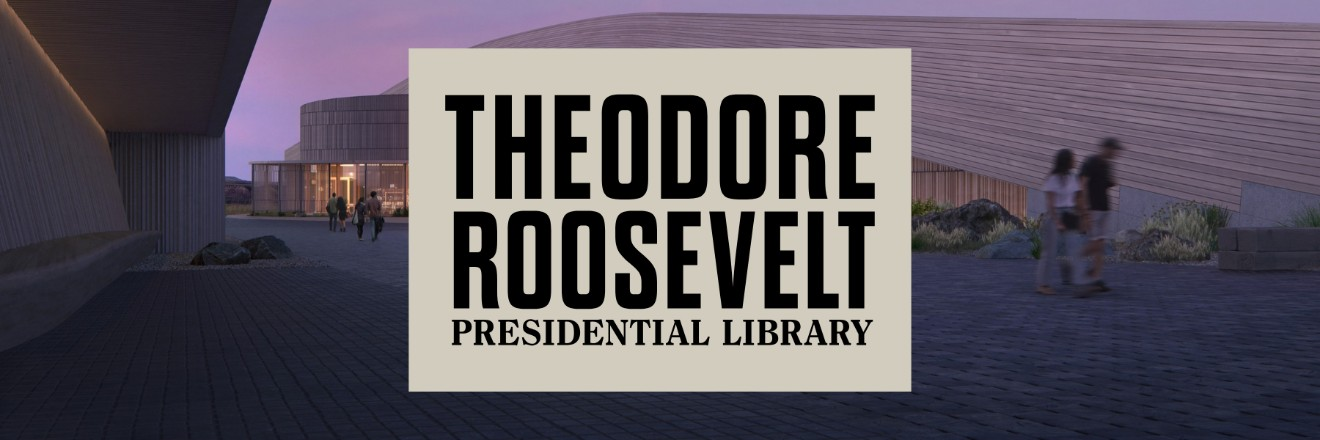
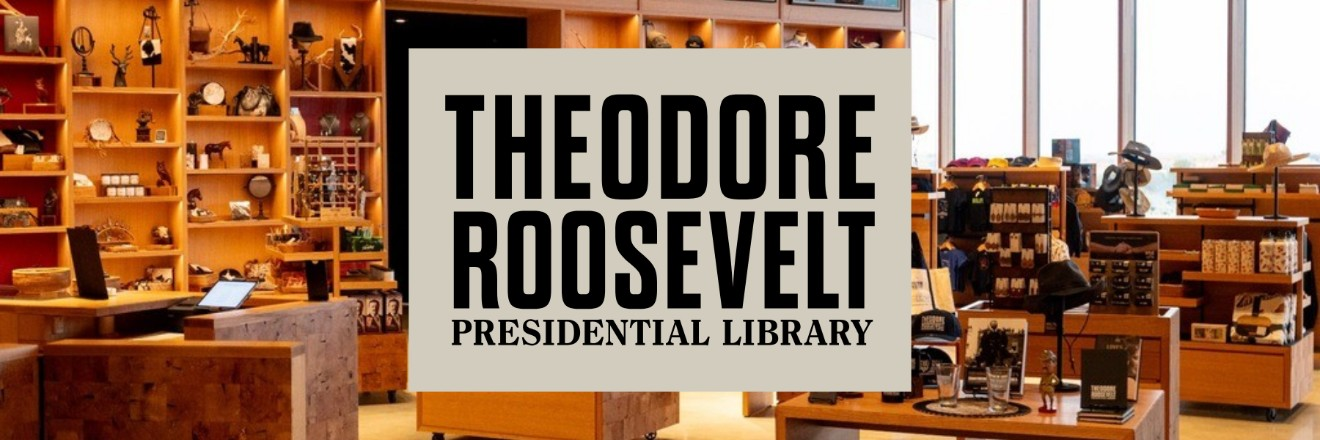
Post-visit emails: real photos only, no architectural renderings
Shop header is the real Library Shop; event and come-back emails use the
real building, boardwalk, galleries, terrace and video frames.

Claude-Session: https://claude.ai/code/session_01NsS3vn2mLrk4xNqmPxMEFG

diff --git a/docs/proposals/visit-t-plus-30-host-an-event.html b/docs/proposals/visit-t-plus-30-host-an-event.html
@@ -27,10 +27,10 @@
 <tr><td align="center" style="padding:0;"><a href="https://www.trlibrary.com" target="_blank"><img src="proposals/img/visit-t-plus-30-host-an-event-header.jpg" alt="Theodore Roosevelt Presidential Library" width="660" style="display:block;width:100%;max-width:660px;height:auto;border:0;"></a></td></tr>
 <tr><td style="padding:28px 24px 8px;"><h1 style="display:block;margin:0;color:#000000;font-family:'Oswald', 'Arial Narrow', Arial, sans-serif;font-size:32px;font-weight:600;line-height:1.25;letter-spacing:.02em;text-transform:uppercase;text-align:center;">Host Your Event at the Library</h1></td></tr>
 <tr><td style="padding:8px 24px;"><div style="margin:0;color:#000000;font-family:'Alegreya', Georgia, 'Times New Roman', serif;font-size:17px;font-weight:normal;line-height:1.6;text-align:left;">Hello [[FIRSTNAME OR "Friend"]],<br><br>You have seen the galleries by day. After hours, the Library hosts weddings, leadership retreats, private dinners and family reunions, with sunset over the Badlands as the backdrop.</div></td></tr>
-<tr><td align="center" style="padding:12px 24px;"><img src="proposals/img/pv-events-lobby-wide.jpg" alt="The Library lobby, with glass walls framing the Badlands" width="612" style="display:block;width:100%;max-width:612px;height:auto;border:0;"></td></tr>
+<tr><td align="center" style="padding:12px 24px;"><img src="proposals/img/pv-events-overlook-wide.jpg" alt="Two people on the Library boardwalk looking out over the Badlands" width="612" style="display:block;width:100%;max-width:612px;height:auto;border:0;"></td></tr>
 <tr><td style="padding:8px 24px;"><table role="presentation" width="100%" border="0" cellpadding="0" cellspacing="0" style="border-collapse:collapse;width:100%;table-layout:fixed;"><tr><td width="50%" style="width:50%;padding:8px 4px;border:1px solid #D1D1D1;background-color:#F4F2EC;color:#000000;font-family:'Oswald', 'Arial Narrow', Arial, sans-serif;font-size:13px;font-weight:600;letter-spacing:.06em;line-height:1.25;text-transform:uppercase;text-align:left;overflow-wrap:break-word;padding-left:10px;">Event</td><td width="50%" style="width:50%;padding:8px 4px;border:1px solid #D1D1D1;background-color:#F4F2EC;color:#000000;font-family:'Oswald', 'Arial Narrow', Arial, sans-serif;font-size:13px;font-weight:600;letter-spacing:.06em;line-height:1.25;text-transform:uppercase;text-align:center;overflow-wrap:break-word;">At the Library</td></tr><tr><td style="width:50%;padding:8px 4px;border:1px solid #D1D1D1;background-color:#ffffff;font-family:'Alegreya', Georgia, 'Times New Roman', serif;font-size:15px;font-weight:bold;line-height:1.35;color:#000000;padding-left:10px;text-align:left;vertical-align:middle;overflow-wrap:break-word;">Weddings and celebrations</td><td style="width:50%;padding:8px 4px;border:1px solid #D1D1D1;background-color:#ffffff;font-family:'Alegreya', Georgia, 'Times New Roman', serif;font-size:16px;line-height:1.4;color:#000000;text-align:center;vertical-align:middle;overflow-wrap:break-word;">Indoor and outdoor ceremonies, terraces above the Little Missouri, and receptions in spaces most guests see only once.</td></tr><tr><td style="width:50%;padding:8px 4px;border:1px solid #D1D1D1;background-color:#ffffff;font-family:'Alegreya', Georgia, 'Times New Roman', serif;font-size:15px;font-weight:bold;line-height:1.35;color:#000000;padding-left:10px;text-align:left;vertical-align:middle;overflow-wrap:break-word;">Corporate gatherings</td><td style="width:50%;padding:8px 4px;border:1px solid #D1D1D1;background-color:#ffffff;font-family:'Alegreya', Georgia, 'Times New Roman', serif;font-size:16px;line-height:1.4;color:#000000;text-align:center;vertical-align:middle;overflow-wrap:break-word;">Board retreats, offsites, client trips and launches, with private conference space.</td></tr><tr><td style="width:50%;padding:8px 4px;border:1px solid #D1D1D1;background-color:#ffffff;font-family:'Alegreya', Georgia, 'Times New Roman', serif;font-size:15px;font-weight:bold;line-height:1.35;color:#000000;padding-left:10px;text-align:left;vertical-align:middle;overflow-wrap:break-word;">Private dinners</td><td style="width:50%;padding:8px 4px;border:1px solid #D1D1D1;background-color:#ffffff;font-family:'Alegreya', Georgia, 'Times New Roman', serif;font-size:16px;line-height:1.4;color:#000000;text-align:center;vertical-align:middle;overflow-wrap:break-word;">Seated dinners for 12 to 60, or cocktails on a terrace as the light drops.</td></tr><tr><td style="width:50%;padding:8px 4px;border:1px solid #D1D1D1;background-color:#ffffff;font-family:'Alegreya', Georgia, 'Times New Roman', serif;font-size:15px;font-weight:bold;line-height:1.35;color:#000000;padding-left:10px;text-align:left;vertical-align:middle;overflow-wrap:break-word;">Nonprofit and association events</td><td style="width:50%;padding:8px 4px;border:1px solid #D1D1D1;background-color:#ffffff;font-family:'Alegreya', Georgia, 'Times New Roman', serif;font-size:16px;line-height:1.4;color:#000000;text-align:center;vertical-align:middle;overflow-wrap:break-word;">Conferences, galas and convenings in a nonpartisan setting.</td></tr></table></td></tr>
 <tr><td style="padding:8px 24px;"><div style="margin:0;color:#000000;font-family:'Alegreya', Georgia, 'Times New Roman', serif;font-size:17px;font-weight:normal;line-height:1.6;text-align:left;">Every event includes the Library's events team and its list of regional caterers and partners. Add curator-led tours or after-hours access to the galleries.</div></td></tr>
-<tr><td style="padding:6px 12px;"><table role="presentation" border="0" cellpadding="0" cellspacing="0" width="100%"><tr><td class="nb-col" width="50%" valign="top" style="padding:12px;"><a href="https://www.trlibrary.com/private-events/spaces" target="_blank"><img src="proposals/img/pv-events-auditorium.jpg" alt="The Library auditorium" width="282" style="display:block;width:100%;max-width:282px;height:auto;border:0;"></a><h3 style="display:block;margin:14px 0 6px;color:#000000;font-family:'Oswald', 'Arial Narrow', Arial, sans-serif;font-size:20px;font-weight:600;line-height:1.3;letter-spacing:.02em;text-transform:uppercase;text-align:center;">The Spaces</h3><div style="margin:0;color:#000000;font-family:'Alegreya', Georgia, 'Times New Roman', serif;font-size:16px;line-height:1.55;text-align:center;">The auditorium, classroom, lobby, terraces and restaurant, in one look book.</div><table role="presentation" border="0" cellpadding="0" cellspacing="0" align="center" style="margin:14px auto 0;"><tr><td align="center" style="background-color:#000000;"><a href="https://www.trlibrary.com/private-events/spaces" target="_blank" style="background-color:#000000;border:2px solid #000000;color:#ffffff;display:inline-block;font-family:'Oswald', 'Arial Narrow', Arial, sans-serif;font-size:14px;font-weight:500;padding:11px 22px;text-decoration:none;text-transform:uppercase;letter-spacing:.08em;">See the Spaces</a></td></tr></table></td><td class="nb-col" width="50%" valign="top" style="padding:12px;"><a href="https://www.trlibrary.com/private-events/catering" target="_blank"><img src="proposals/img/pv-events-dining.jpg" alt="Salt+Scoria, the Library restaurant" width="282" style="display:block;width:100%;max-width:282px;height:auto;border:0;"></a><h3 style="display:block;margin:14px 0 6px;color:#000000;font-family:'Oswald', 'Arial Narrow', Arial, sans-serif;font-size:20px;font-weight:600;line-height:1.3;letter-spacing:.02em;text-transform:uppercase;text-align:center;">Catering</h3><div style="margin:0;color:#000000;font-family:'Alegreya', Georgia, 'Times New Roman', serif;font-size:16px;line-height:1.55;text-align:center;">Menus for receptions, seated dinners and everything in between.</div><table role="presentation" border="0" cellpadding="0" cellspacing="0" align="center" style="margin:14px auto 0;"><tr><td align="center" style="background-color:#000000;"><a href="https://www.trlibrary.com/private-events/catering" target="_blank" style="background-color:#000000;border:2px solid #000000;color:#ffffff;display:inline-block;font-family:'Oswald', 'Arial Narrow', Arial, sans-serif;font-size:14px;font-weight:500;padding:11px 22px;text-decoration:none;text-transform:uppercase;letter-spacing:.08em;">See Catering</a></td></tr></table></td></tr></table></td></tr>
+<tr><td style="padding:6px 12px;"><table role="presentation" border="0" cellpadding="0" cellspacing="0" width="100%"><tr><td class="nb-col" width="50%" valign="top" style="padding:12px;"><a href="https://www.trlibrary.com/private-events/spaces" target="_blank"><img src="proposals/img/pv-events-galleries.jpg" alt="The Library galleries" width="282" style="display:block;width:100%;max-width:282px;height:auto;border:0;"></a><h3 style="display:block;margin:14px 0 6px;color:#000000;font-family:'Oswald', 'Arial Narrow', Arial, sans-serif;font-size:20px;font-weight:600;line-height:1.3;letter-spacing:.02em;text-transform:uppercase;text-align:center;">The Spaces</h3><div style="margin:0;color:#000000;font-family:'Alegreya', Georgia, 'Times New Roman', serif;font-size:16px;line-height:1.55;text-align:center;">The auditorium, classroom, lobby, terraces and restaurant, in one look book.</div><table role="presentation" border="0" cellpadding="0" cellspacing="0" align="center" style="margin:14px auto 0;"><tr><td align="center" style="background-color:#000000;"><a href="https://www.trlibrary.com/private-events/spaces" target="_blank" style="background-color:#000000;border:2px solid #000000;color:#ffffff;display:inline-block;font-family:'Oswald', 'Arial Narrow', Arial, sans-serif;font-size:14px;font-weight:500;padding:11px 22px;text-decoration:none;text-transform:uppercase;letter-spacing:.08em;">See the Spaces</a></td></tr></table></td><td class="nb-col" width="50%" valign="top" style="padding:12px;"><a href="https://www.trlibrary.com/private-events/catering" target="_blank"><img src="proposals/img/pv-events-terrace.jpg" alt="A family on the Library terrace" width="282" style="display:block;width:100%;max-width:282px;height:auto;border:0;"></a><h3 style="display:block;margin:14px 0 6px;color:#000000;font-family:'Oswald', 'Arial Narrow', Arial, sans-serif;font-size:20px;font-weight:600;line-height:1.3;letter-spacing:.02em;text-transform:uppercase;text-align:center;">Terraces and Catering</h3><div style="margin:0;color:#000000;font-family:'Alegreya', Georgia, 'Times New Roman', serif;font-size:16px;line-height:1.55;text-align:center;">Terraces above the Badlands, and menus for receptions, seated dinners and everything in between.</div><table role="presentation" border="0" cellpadding="0" cellspacing="0" align="center" style="margin:14px auto 0;"><tr><td align="center" style="background-color:#000000;"><a href="https://www.trlibrary.com/private-events/catering" target="_blank" style="background-color:#000000;border:2px solid #000000;color:#ffffff;display:inline-block;font-family:'Oswald', 'Arial Narrow', Arial, sans-serif;font-size:14px;font-weight:500;padding:11px 22px;text-decoration:none;text-transform:uppercase;letter-spacing:.08em;">See Catering</a></td></tr></table></td></tr></table></td></tr>
 <tr><td align="center" style="padding:18px 24px;">
         <table role="presentation" border="0" cellpadding="0" cellspacing="0"><tr>
         <td align="center" style="background-color:#000000;border-radius:0;">
@@ -50,7 +50,7 @@
 </table>
 </center>
 <!--NEWSLETTER-BUILDER-DATA-B64
[2 lines of base64/hex data omitted]
 NEWSLETTER-BUILDER-DATA-B64-->
 </body>
 </html>

diff --git a/docs/proposals/visit-t-plus-60-come-back.html b/docs/proposals/visit-t-plus-60-come-back.html
@@ -27,7 +27,7 @@
 <tr><td align="center" style="padding:0;"><a href="https://www.trlibrary.com" target="_blank"><img src="proposals/img/visit-t-plus-60-come-back-header.jpg" alt="Theodore Roosevelt Presidential Library" width="660" style="display:block;width:100%;max-width:660px;height:auto;border:0;"></a></td></tr>
 <tr><td style="padding:28px 24px 8px;"><h1 style="display:block;margin:0;color:#000000;font-family:'Oswald', 'Arial Narrow', Arial, sans-serif;font-size:32px;font-weight:600;line-height:1.25;letter-spacing:.02em;text-transform:uppercase;text-align:center;">Come Back to the Badlands</h1></td></tr>
 <tr><td style="padding:8px 24px;"><div style="margin:0;color:#000000;font-family:'Alegreya', Georgia, 'Times New Roman', serif;font-size:17px;font-weight:normal;line-height:1.6;text-align:left;">Hello [[FIRSTNAME OR "Friend"]],<br><br>No two visits to the Library have to look alike. Special events change with the seasons: talks with historians and authors, film screenings in the auditorium, family days, festivals and evening programs on the butte.</div></td></tr>
-<tr><td style="padding:6px 12px;"><table role="presentation" border="0" cellpadding="0" cellspacing="0" width="100%"><tr><td class="nb-col" width="50%" valign="top" style="padding:12px;"><a href="https://www.trlibrary.com/calendar/special-event" target="_blank"><img src="proposals/img/pv-events-auditorium.jpg" alt="The Library auditorium" width="282" style="display:block;width:100%;max-width:282px;height:auto;border:0;"></a><h3 style="display:block;margin:14px 0 6px;color:#000000;font-family:'Oswald', 'Arial Narrow', Arial, sans-serif;font-size:20px;font-weight:600;line-height:1.3;letter-spacing:.02em;text-transform:uppercase;text-align:center;">Special Events</h3><div style="margin:0;color:#000000;font-family:'Alegreya', Georgia, 'Times New Roman', serif;font-size:16px;line-height:1.55;text-align:center;">Talks, screenings, festivals and evening programs, each with its own date and ticket.</div><table role="presentation" border="0" cellpadding="0" cellspacing="0" align="center" style="margin:14px auto 0;"><tr><td align="center" style="background-color:#000000;"><a href="https://www.trlibrary.com/calendar/special-event" target="_blank" style="background-color:#000000;border:2px solid #000000;color:#ffffff;display:inline-block;font-family:'Oswald', 'Arial Narrow', Arial, sans-serif;font-size:14px;font-weight:500;padding:11px 22px;text-decoration:none;text-transform:uppercase;letter-spacing:.08em;">See Special Events</a></td></tr></table></td><td class="nb-col" width="50%" valign="top" style="padding:12px;"><a href="https://www.trlibrary.com/calendar/specialty-tour" target="_blank"><img src="proposals/img/pv-events-lobby.jpg" alt="The Library lobby" width="282" style="display:block;width:100%;max-width:282px;height:auto;border:0;"></a><h3 style="display:block;margin:14px 0 6px;color:#000000;font-family:'Oswald', 'Arial Narrow', Arial, sans-serif;font-size:20px;font-weight:600;line-height:1.3;letter-spacing:.02em;text-transform:uppercase;text-align:center;">Specialty Tours</h3><div style="margin:0;color:#000000;font-family:'Alegreya', Georgia, 'Times New Roman', serif;font-size:16px;line-height:1.55;text-align:center;">Tours built around a single subject, offered on select days.</div><table role="presentation" border="0" cellpadding="0" cellspacing="0" align="center" style="margin:14px auto 0;"><tr><td align="center" style="background-color:#000000;"><a href="https://www.trlibrary.com/calendar/specialty-tour" target="_blank" style="background-color:#000000;border:2px solid #000000;color:#ffffff;display:inline-block;font-family:'Oswald', 'Arial Narrow', Arial, sans-serif;font-size:14px;font-weight:500;padding:11px 22px;text-decoration:none;text-transform:uppercase;letter-spacing:.08em;">See Tours</a></td></tr></table></td></tr></table></td></tr>
+<tr><td style="padding:6px 12px;"><table role="presentation" border="0" cellpadding="0" cellspacing="0" width="100%"><tr><td class="nb-col" width="50%" valign="top" style="padding:12px;"><a href="https://www.trlibrary.com/calendar/special-event" target="_blank"><img src="proposals/img/pv-come-back-audience.jpg" alt="An audience watching a program at the Library" width="282" style="display:block;width:100%;max-width:282px;height:auto;border:0;"></a><h3 style="display:block;margin:14px 0 6px;color:#000000;font-family:'Oswald', 'Arial Narrow', Arial, sans-serif;font-size:20px;font-weight:600;line-height:1.3;letter-spacing:.02em;text-transform:uppercase;text-align:center;">Special Events</h3><div style="margin:0;color:#000000;font-family:'Alegreya', Georgia, 'Times New Roman', serif;font-size:16px;line-height:1.55;text-align:center;">Talks, screenings, festivals and evening programs, each with its own date and ticket.</div><table role="presentation" border="0" cellpadding="0" cellspacing="0" align="center" style="margin:14px auto 0;"><tr><td align="center" style="background-color:#000000;"><a href="https://www.trlibrary.com/calendar/special-event" target="_blank" style="background-color:#000000;border:2px solid #000000;color:#ffffff;display:inline-block;font-family:'Oswald', 'Arial Narrow', Arial, sans-serif;font-size:14px;font-weight:500;padding:11px 22px;text-decoration:none;text-transform:uppercase;letter-spacing:.08em;">See Special Events</a></td></tr></table></td><td class="nb-col" width="50%" valign="top" style="padding:12px;"><a href="https://www.trlibrary.com/calendar/specialty-tour" target="_blank"><img src="proposals/img/pv-come-back-exhibit.jpg" alt="A participant pointing out an exhibit in the galleries" width="282" style="display:block;width:100%;max-width:282px;height:auto;border:0;"></a><h3 style="display:block;margin:14px 0 6px;color:#000000;font-family:'Oswald', 'Arial Narrow', Arial, sans-serif;font-size:20px;font-weight:600;line-height:1.3;letter-spacing:.02em;text-transform:uppercase;text-align:center;">Specialty Tours</h3><div style="margin:0;color:#000000;font-family:'Alegreya', Georgia, 'Times New Roman', serif;font-size:16px;line-height:1.55;text-align:center;">Tours built around a single subject, offered on select days.</div><table role="presentation" border="0" cellpadding="0" cellspacing="0" align="center" style="margin:14px auto 0;"><tr><td align="center" style="background-color:#000000;"><a href="https://www.trlibrary.com/calendar/specialty-tour" target="_blank" style="background-color:#000000;border:2px solid #000000;color:#ffffff;display:inline-block;font-family:'Oswald', 'Arial Narrow', Arial, sans-serif;font-size:14px;font-weight:500;padding:11px 22px;text-decoration:none;text-transform:uppercase;letter-spacing:.08em;">See Tours</a></td></tr></table></td></tr></table></td></tr>
 <tr><td style="padding:8px 24px;"><div style="margin:0;color:#000000;font-family:'Alegreya', Georgia, 'Times New Roman', serif;font-size:17px;font-weight:normal;line-height:1.6;text-align:center;">Hear about events while seats are still open: add <a target="_blank" style="color:#000000;font-weight:bold;text-decoration:underline;" href="https://www.trlibrary.com/newsletter">Events &amp; Programs</a> to your newsletter topics.</div></td></tr>
 <!--cc:if group="p6" tag="custom.acme_-_is_active_member" field="Acme - Is Active Member" label="Membership" other="Not a member" is="active|new"-->
 <tr><td style="padding:8px 24px;"><div style="margin:0;color:#000000;font-family:'Alegreya', Georgia, 'Times New Roman', serif;font-size:17px;font-weight:normal;line-height:1.6;text-align:left;"><b>As a member</b>, you get early ticket access and invitations to member events, and your free admission covers every visit until your membership renews.</div></td></tr>
@@ -70,7 +70,7 @@
 </table>
 </center>
 <!--NEWSLETTER-BUILDER-DATA-B64
[2 lines of base64/hex data omitted]
 NEWSLETTER-BUILDER-DATA-B64-->
 </body>
 </html>

diff --git a/docs/proposals/visit-t-plus-2-thank-you.html b/docs/proposals/visit-t-plus-2-thank-you.html
@@ -76,7 +76,7 @@
 </table>
 </center>
 <!--NEWSLETTER-BUILDER-DATA-B64
[2 lines of base64/hex data omitted]
 NEWSLETTER-BUILDER-DATA-B64-->
 </body>
 </html>

diff --git a/docs/proposals/visit-t-plus-14-shop.html b/docs/proposals/visit-t-plus-14-shop.html
@@ -76,7 +76,7 @@
 </table>
 </center>
 <!--NEWSLETTER-BUILDER-DATA-B64
[2 lines of base64/hex data omitted]
 NEWSLETTER-BUILDER-DATA-B64-->
 </body>
 </html>

diff --git a/docs/proposals/visit-t-plus-7-keep-exploring.html b/docs/proposals/visit-t-plus-7-keep-exploring.html
@@ -65,7 +65,7 @@
 </table>
 </center>
 <!--NEWSLETTER-BUILDER-DATA-B64
[2 lines of base64/hex data omitted]
 NEWSLETTER-BUILDER-DATA-B64-->
 </body>
 </html>
